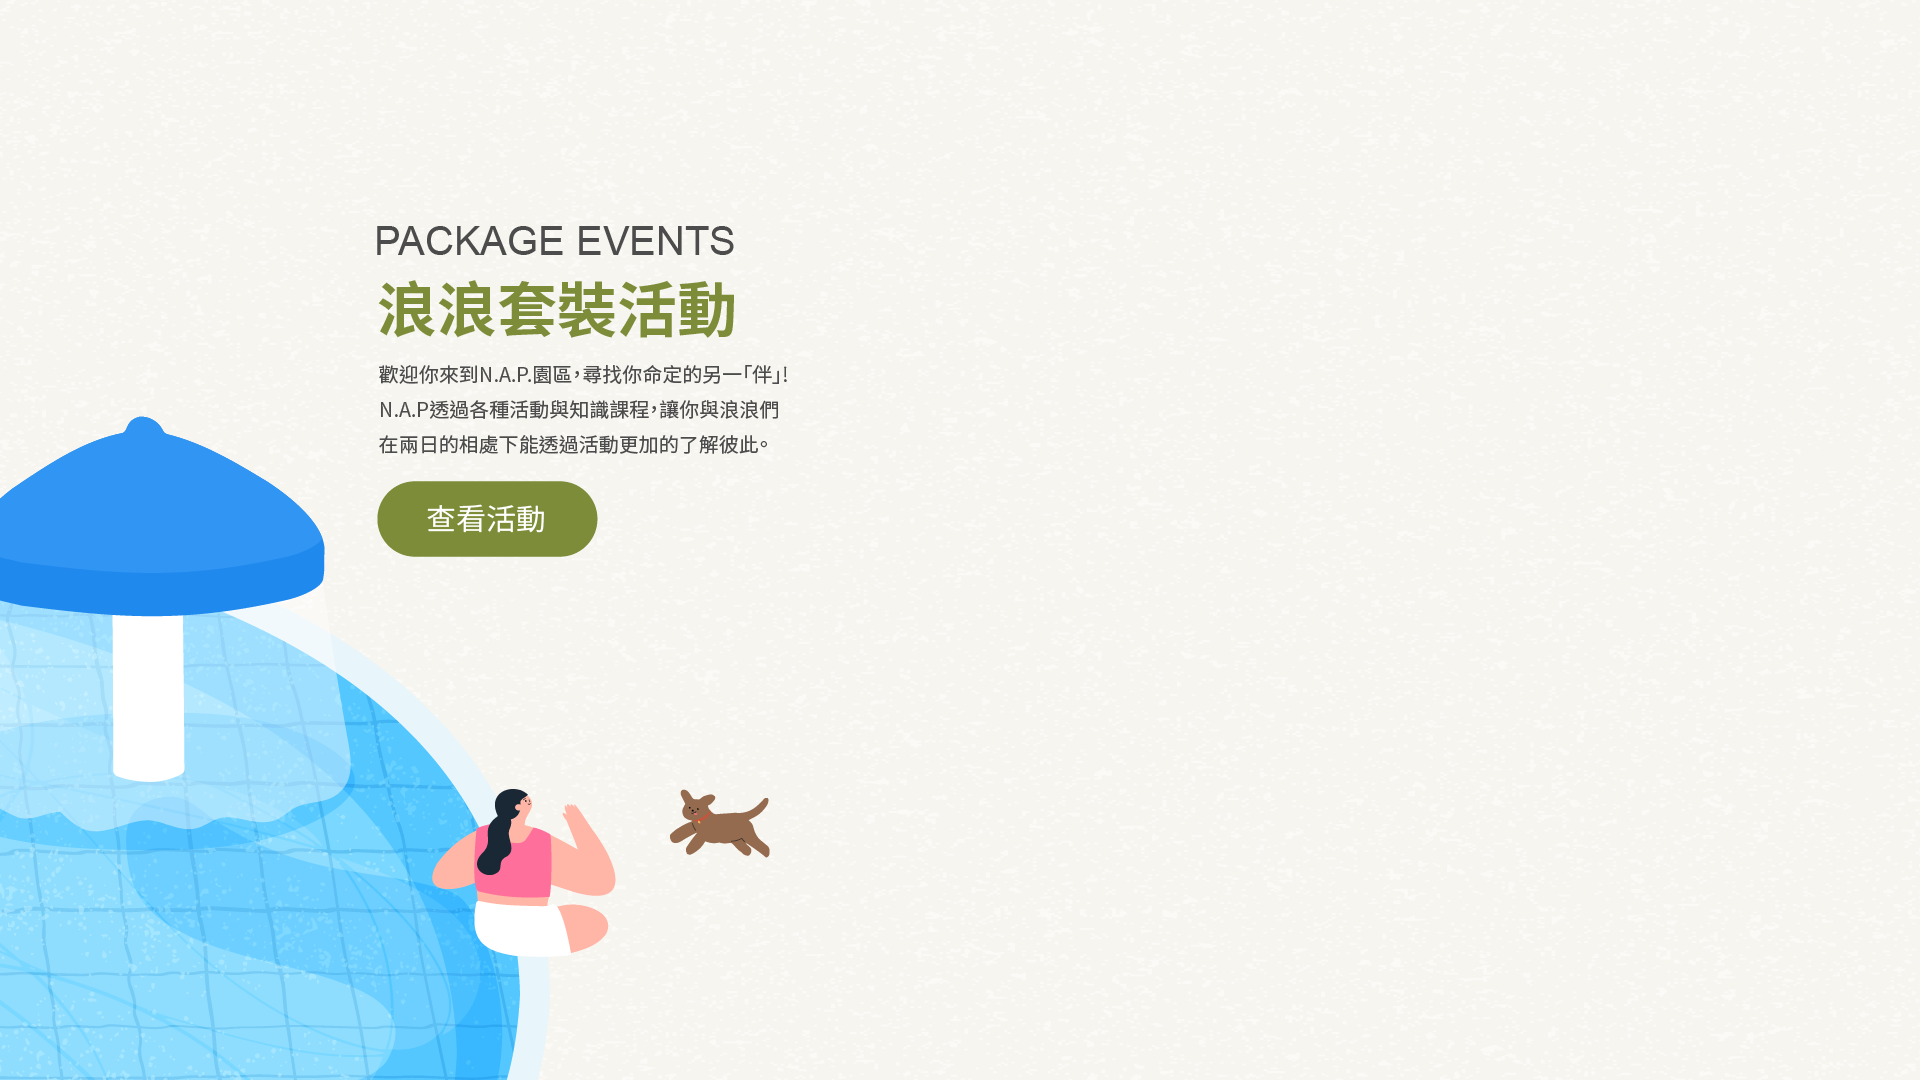
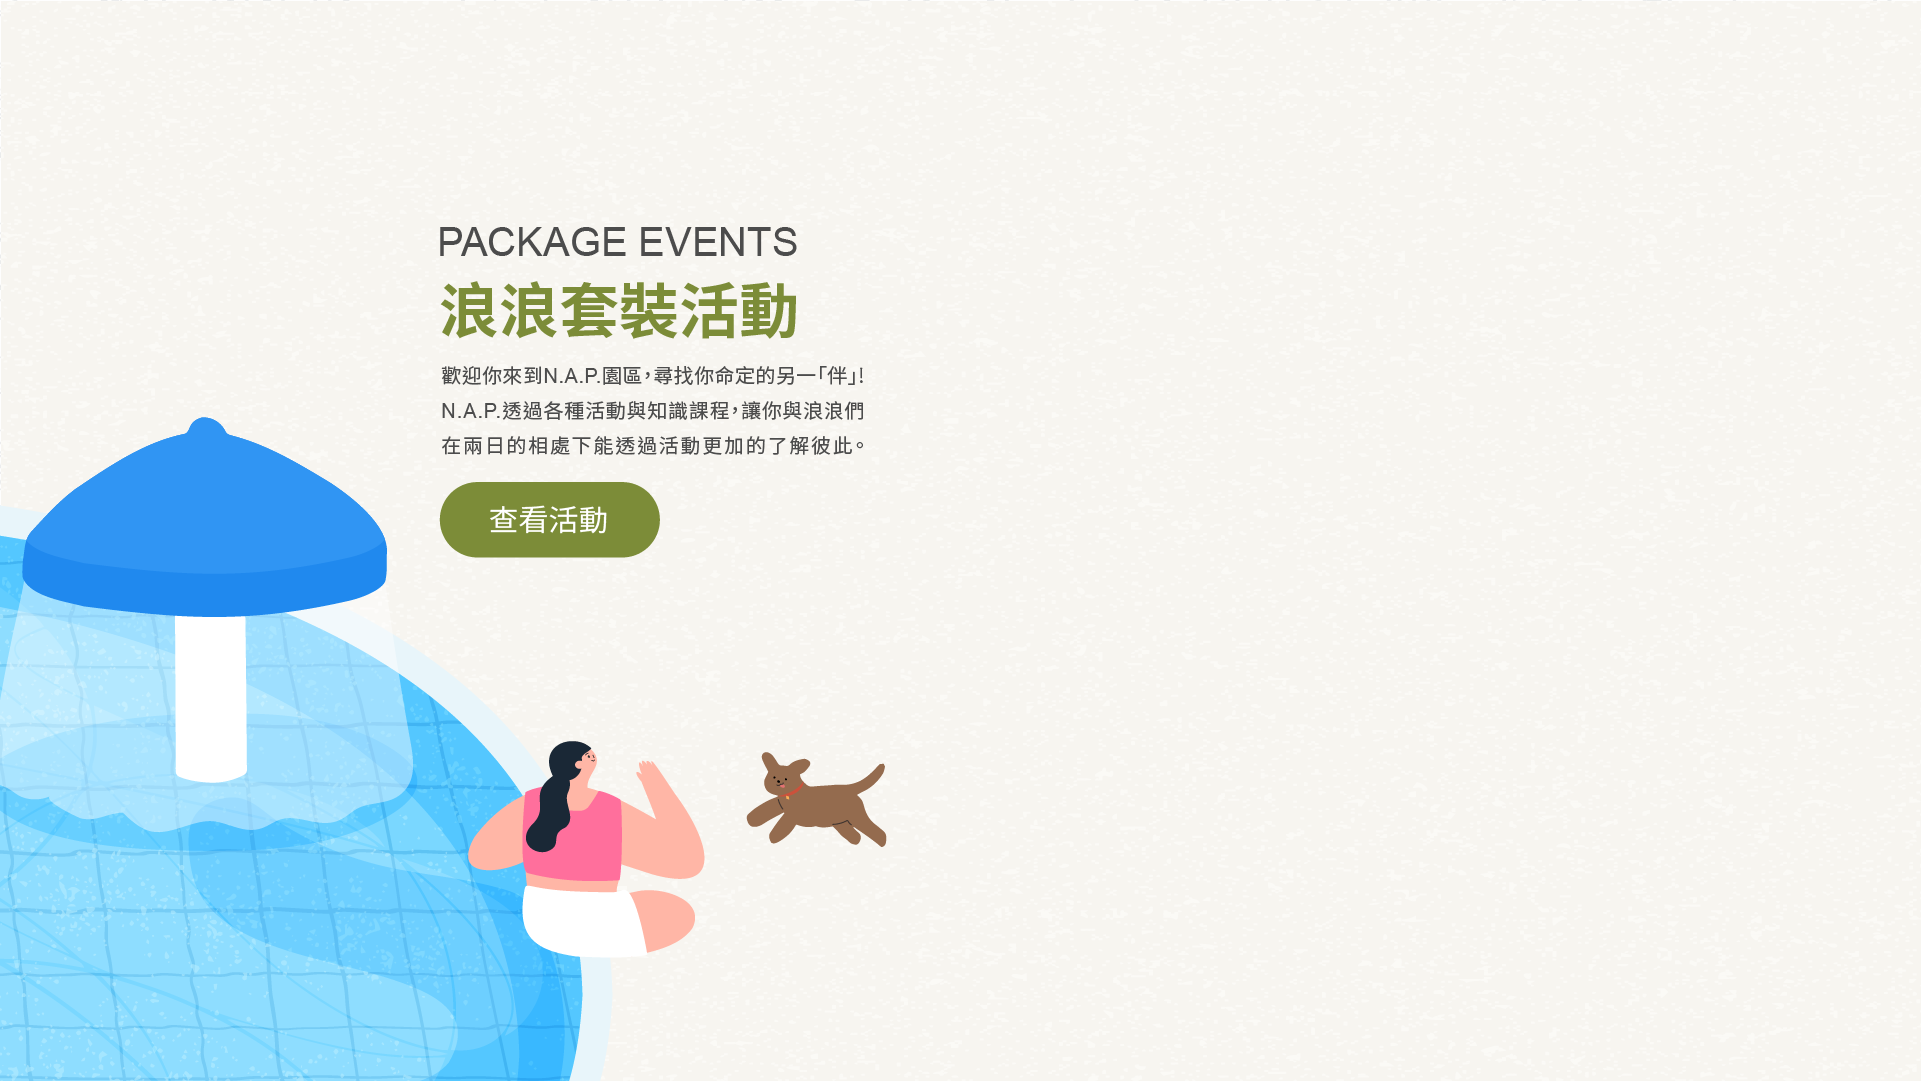
0907-2338-p
1. 桌機版-新增活動頁面banner

Changed region(s): [[0.0, 0.1833, 0.4688, 1.0]]

diff --git a/penny/css_p/Events_Page..css b/penny/css_p/Events_Page..css
@@ -62,6 +62,12 @@ body{
 .events-banner-row-mb{
     display: block;
 }
+.events-banner-row-pc{
+    display: none;
+}
+.events-banner-ai01-imgbox{
+    display: none;
+}
 /* 浪浪套裝活動-手機版 */
 .events-banner-package{
     height: 50vh;
@@ -155,83 +161,50 @@ body{
     background-color: var(--secondaryColor_default);
     color: var(--white);
 }
-.events-banner-special-bg-pc{
-    display: none;
-}
 @media screen and (min-width:768px) {
     .events-banner-row-mb{
         display: none;
     }
-    /* 每月特別活動 | 桌機版 */
-    .events-banner-special-bg-pc{
+    .events-banner-row-pc{
         display: block;
+        position: relative;
+    }
+    .events-banner-ai01-imgbox{
+        display: block;
+        width: 45%;
+        position: absolute;
+        top: 82%;
+        right: 0%;
+        overflow: hidden;
+    }
+    .events-banner-ai01-imgbox img{
+        width: 100%;
+    }
+    /* 每月特別活動 | 桌機版 */
+    .banner-special-pc{
         width: 100%;
         height: 100vh;
-        position: relative;
-        display: flex;
         justify-content: space-between;
         overflow: hidden;
-        position: relative;
-        background: url('../img_p/illustration/illustration-79.png') no-repeat right center / cover;
     }
-    .events-banner-pc-text{
-        position: absolute;
-        top: 15%;
-        right: 20%;
-        width: 500px;
-        height: 50%;
-        /* background-color: #2D2D2D; */
-        display: flex;
-        flex-direction: column;
-        justify-content: center;
-        align-items: flex-end;
-    }
-    .events-banner-pc-text h3{
-        font-size: var(--headline_40px);
-        color: var(--white);
-        font-weight: 300;
-        padding-bottom: 20px;
-    }
-    .events-banner-pc-text h2{
-        font-size: var(--headline_60px);
-        font-weight: 600;
-        color: var(--secondaryColor_default);
-        padding-bottom: 20px;
-    }
-    .events-banner-pc-text p{
-        font-size: var(--headline_20px);
-        line-height: 1.8;
-        color: var(--white);
-        font-weight: 300;
-        padding-bottom: 30px;
-        text-align: right;
-    }
-    .events-banner-pc-text .events-banner-special-btn{
+    .banner-special-pc img{
         width: 100%;
-        text-align: right;
-    }
-    .events-banner-pc-text .events-banner-special-btn a{
-        font-size: var(--headline_24px);
-        text-decoration: none;
-        padding: 10px 40px;
-        border-radius: 40px;
-        background-color: var(--secondaryColor_default);
-        color: var(--white);
+        height: 100vh;
     }
     /* 浪浪套裝活動 | 桌機版 */
-    .events-banner-package-bg-pc {
+    .banner-package-pc{
         width: 50%;
-        height: 100%;
-        position: relative;
+        height: 100vh;
+        position: absolute;
         top: 0;
         left: 0;
         transition: 0.3s linear;
-        background: url('../img_p/illustration/illustration-78.png') no-repeat left center / cover fixed;
-      }
-      #p1 {
-        position: absolute;
-        left: 100px;
-        color: #2d2d2d;
-      }
-      
+        overflow: hidden;
+    }
+    .banner-package-pc img{
+        width: 100%;
+        height: 100vh;
+        object-fit: cover;
+        object-position: 0 0;
+    }   
 }

diff --git a/penny/Events_Page.html b/penny/Events_Page.html
@@ -39,44 +39,44 @@
             </div>
         </div>
     </div>
-    <div class="events-banner-special-bg-pc">
-        <div class="events-banner-pc-text">
-            <h3>SPECIAL EVENTS</h3>
-            <h2>每月特別活動</h2>
-            <p>每月有配合節慶的活動外，還有專業動物醫學講師開班舉辦講座課程，快帶家中毛孩來參加並留下美好回憶吧！</p>
-            <div class="events-banner-special-btn">
-                <a href="">查看活動</a>
-            </div>
+    <div class="events-banner-row-pc">
+        <div class="banner-special-pc">
+            <img src="./img_p/illustration/illustration-77-1.png" usemap="#image-map-special">
+            <map name="image-map-special" usemap="#image-map-special">
+                <area alt="" title="" href="#" coords="1262,485,1481,563" shape="rect">
+            </map>       
         </div>
-        <div class="events-banner-package-bg-pc">
-            <!-- <div id="p1">
-                <h3>SPECIAL EVENTS</h3>
-                <h2>每月特別活動</h2>
-                <p>每月有配合節慶的活動外，還有專業動物醫學講師開班舉辦講座課程，快帶家中毛孩來參加並留下美好回憶吧！</p>
-                <div class="events-banner-special-btn">
-                    <a href="">查看活動</a>
-                </div>
-            </div> -->
-            <!-- <img src="./img_p/illustration/illustration-78-1.png" usemap="#image-map">
-
-            <map name="image-map">
-                <area target="_blank" alt="" title="" href="#" coords="374,485,601,556" shape="rect">
-            </map> -->
+        <div class="banner-package-pc">
+            <img src="./img_p/illustration/illustration-78-1.png" usemap="#image-map-package">
+            <map name="image-map-package" usemap="#iimage-map-package">
+                <area alt="" title="" href="#" coords="440,482,659,558" shape="rect">
+            </map>
+        </div>
+        <div class="events-banner-ai01-imgbox">
+            <img src="./img_p/illustration/illustration-66.png" alt="">
         </div>
     </div>
-
 </section>
 
 <script src="./js_p/jquery-3.6.0.min.js"></script>
     <script>
-        $(".events-banner-special-bg-pc").mousemove(function (e) {
-        const picWidth = $(".events-banner-package-bg-pc");
-        const wrapWid = $(".events-banner-special-bg-pc").width();
-        let mouseNow = (e.offsetX / wrapWid) * 100;
+        // $(".banner-special-pc").mousemove(function (e) {
+        // const picWidth = $(".banner-package-pc");
+        // const wrapWid = $(".banner-special-pc").width();
+        // let mouseNow = (e.offsetX / wrapWid) * 100;
 
-        picWidth.css("width", 100 - mouseNow + "%");
-        });
+        // picWidth.css("width", 100 - mouseNow + "%");
+        // });
          
+        $('.banner-special-pc').mouseenter(function(){
+            $('.banner-package-pc').css('width', 3+'%');
+        })
+        $('.banner-special-pc').mouseleave(function(){
+            $('.banner-package-pc').css('width', 97+'%');
+        })
+
+
+
     </script>
     
 </body>
